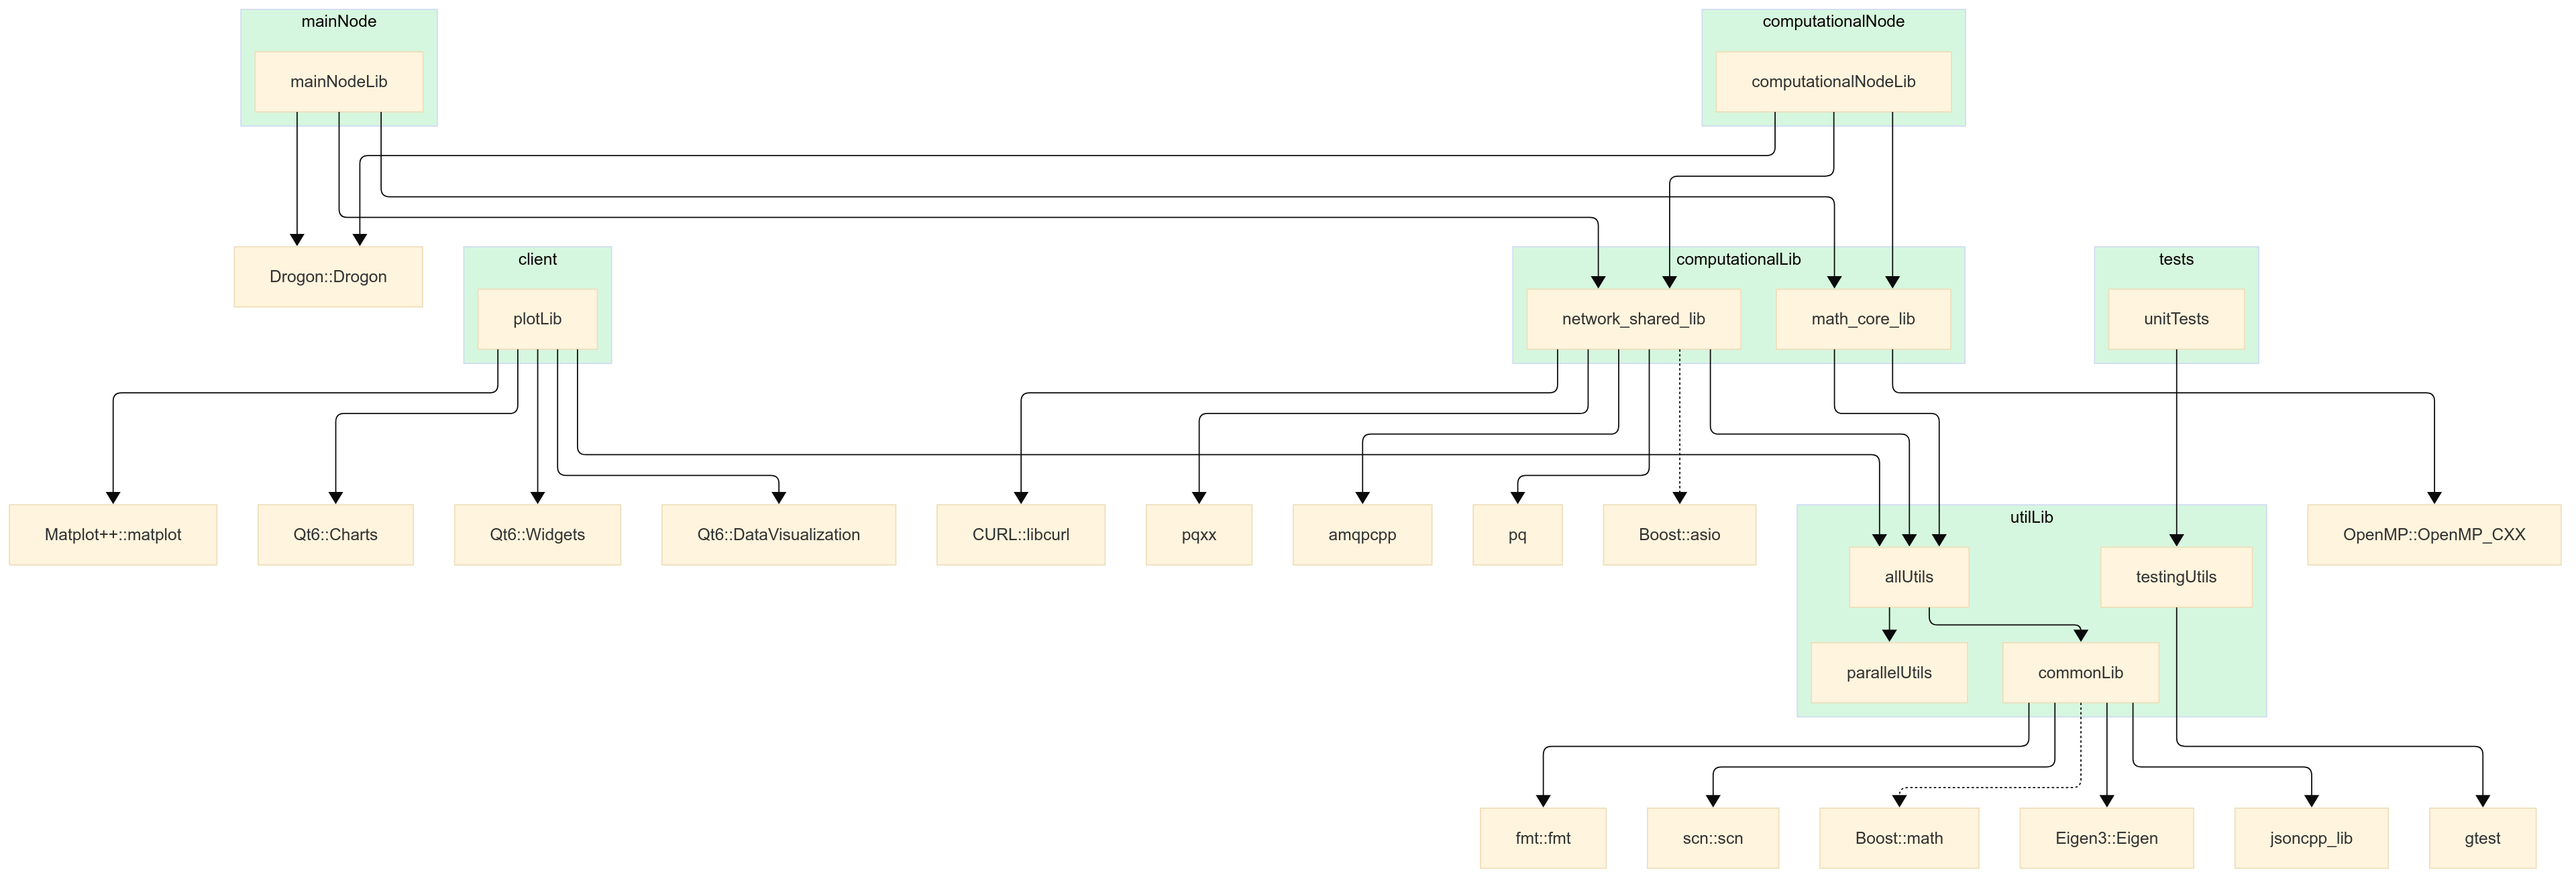
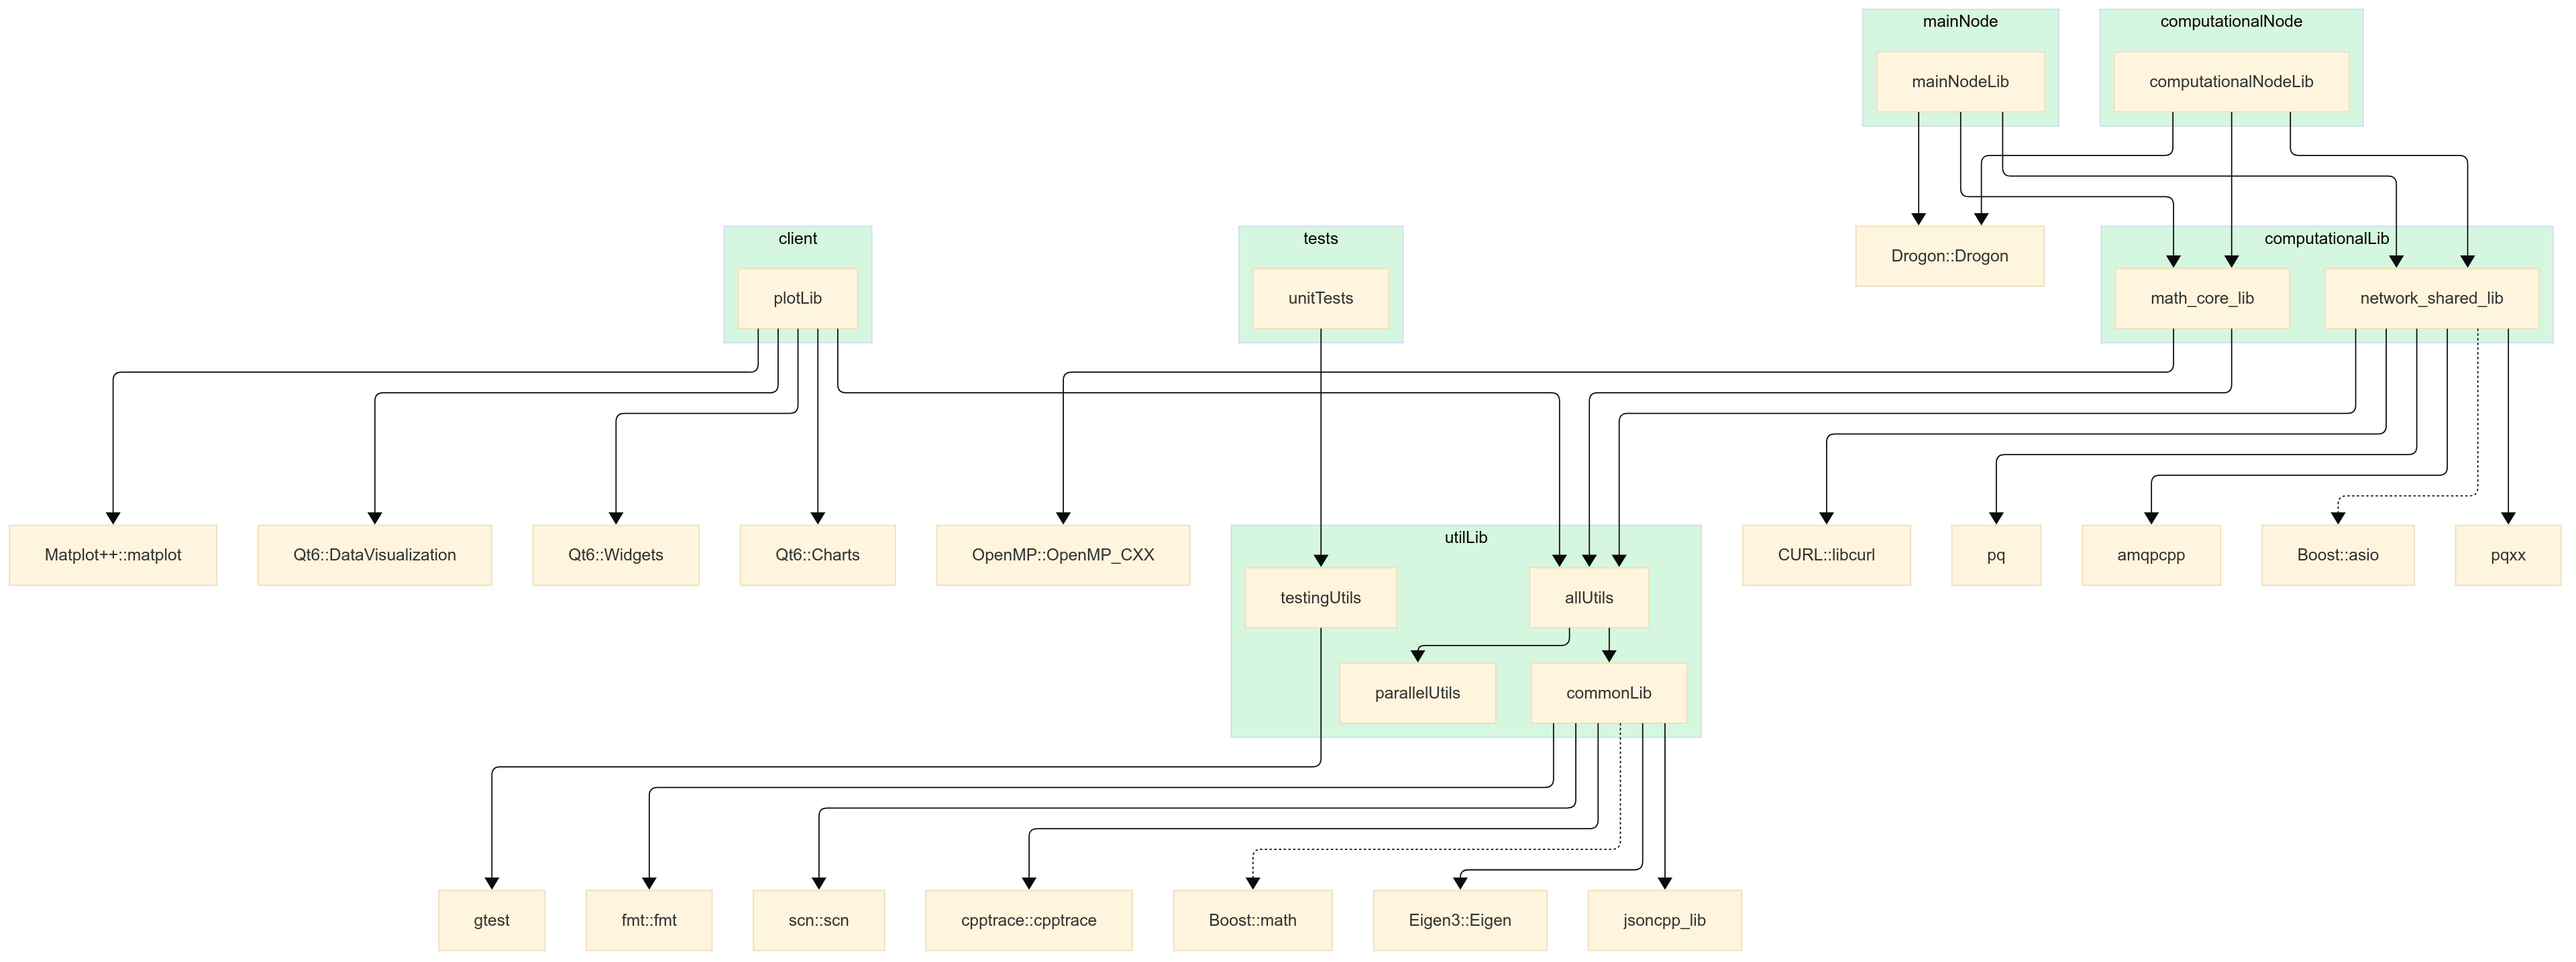
Add cpptrace library. Update plots and doc.

diff --git a/doc/mermaid/dependencyList.m b/doc/mermaid/dependencyList.m
@@ -5,38 +5,38 @@ theme: base
     look: classic
 ---
 flowchart TD
-subgraph utilLib["utilLib"]
-parallelUtils["parallelUtils"]
-commonLib["commonLib"]
-testingUtils["testingUtils"]
-allUtils["allUtils"]
+    subgraph utilLib["utilLib"]
+    parallelUtils["parallelUtils"]
+    commonLib["commonLib"]
+    testingUtils["testingUtils"]
+    allUtils["allUtils"]
 end
     subgraph test["tests"]
-unitTests["unitTests"]
+    unitTests["unitTests"]
 end
     subgraph computationalLib["computationalLib"]
-math_core_lib["math_core_lib"]
-network_shared_lib["network_shared_lib"]
+    math_core_lib["math_core_lib"]
+    network_shared_lib["network_shared_lib"]
 end
     subgraph computationalNode["computationalNode"]
-computationalNodeLib["computationalNodeLib"]
+    computationalNodeLib["computationalNodeLib"]
 end
     subgraph client["client"]
-plotLib["plotLib"]
+    plotLib["plotLib"]
 end
     subgraph mainNode["mainNode"]
-mainNodeLib["mainNodeLib"]
+    mainNodeLib["mainNodeLib"]
 end
-    commonLib --> Eigen["Eigen3::Eigen"] & jsoncpp["jsoncpp_lib"] & fmt["fmt::fmt"] & scn["scn::scn"]
-commonLib -.-> Math["Boost::math"]
-allUtils --> commonLib & parallelUtils
+    commonLib --> Eigen["Eigen3::Eigen"] & jsoncpp["jsoncpp_lib"] & fmt["fmt::fmt"] & scn["scn::scn"] & cpptrace["cpptrace::cpptrace"]
+    commonLib -.-> Math["Boost::math"]
+    allUtils --> commonLib & parallelUtils
     unitTests--> testingUtils
     math_core_lib --> allUtils & OpenMP["OpenMP::OpenMP_CXX"]
-network_shared_lib --> allUtils & amqpcpp["amqpcpp"] & curl["CURL::libcurl"] & pqxx["pqxx"] & pq["pq"]
-network_shared_lib -.-> Asio["Boost::asio"]
-computationalNodeLib --> math_core_lib & Drogon["Drogon::Drogon"] & network_shared_lib
+    network_shared_lib --> allUtils & amqpcpp["amqpcpp"] & curl["CURL::libcurl"] & pqxx["pqxx"] & pq["pq"]
+    network_shared_lib -.-> Asio["Boost::asio"]
+    computationalNodeLib --> math_core_lib & Drogon["Drogon::Drogon"] & network_shared_lib
     plotLib --> allUtils & Matplot["Matplot++::matplot"] & QtCharts["Qt6::Charts"] & QtDataVis["Qt6::DataVisualization"] & QtWidgets["Qt6::Widgets"]
-mainNodeLib --> math_core_lib & network_shared_lib & Drogon
+    mainNodeLib --> math_core_lib & network_shared_lib & Drogon
     testingUtils -->  gtest["gtest"]
 style client fill:#D6F7DF
     style computationalNode fill:#D6F7DF

diff --git a/doc/Stack.md b/doc/Stack.md
@@ -39,6 +39,7 @@
 | matplotplusplus | 1.2.2      | Библиотека визуализации данных. Позволяет сохранять полученные графики в высоком разрешении. Оборачивает вызовы GNU plot.                            |
 | qt6-base        | 6.2.4      | Для реализации пользовательского GUI                                                                                                                 |
 | google test     | 1.15.0     | Фреймворк для создания тестовых сценариев и организации процедур проверки сложных утверждений.                                                       |
+| cpptrace        | 1.0.1      | Библиотека для работы и вывода stacktrace                                                                                                            |
 | *Wiremock       | ?          | Предполагается использовать в ходе будущего тестирования модулей REST                                                                                |
 
 Сервисы в составе предлагаемой системы

diff --git a/README.md b/README.md
@@ -40,7 +40,8 @@
 14. **matplotplusplus** (1.2.2) — библиотека визуализации данных поверх GNU plot.
 15. **qt6-base** (6.2.4) — реализация пользовательского GUI на базе Qt6.
 16. **Google Test** (1.15.0) — фреймворк для написания и запуска модульных тестов.
-17. **Wiremock** (?) — планируется использовать для будущего REST-тестирования.
+17. **cpptrace** (1.0.1) — библиотека для работы и вывода stacktrace.
+18. **Wiremock** (?) — планируется использовать для будущего REST-тестирования.
 
 В рамках данного проекта существует набор модулей для реализации различных элементов распределённой архитектуры.
 В этом описании под модулем, в контексте описания структуры проекта,
